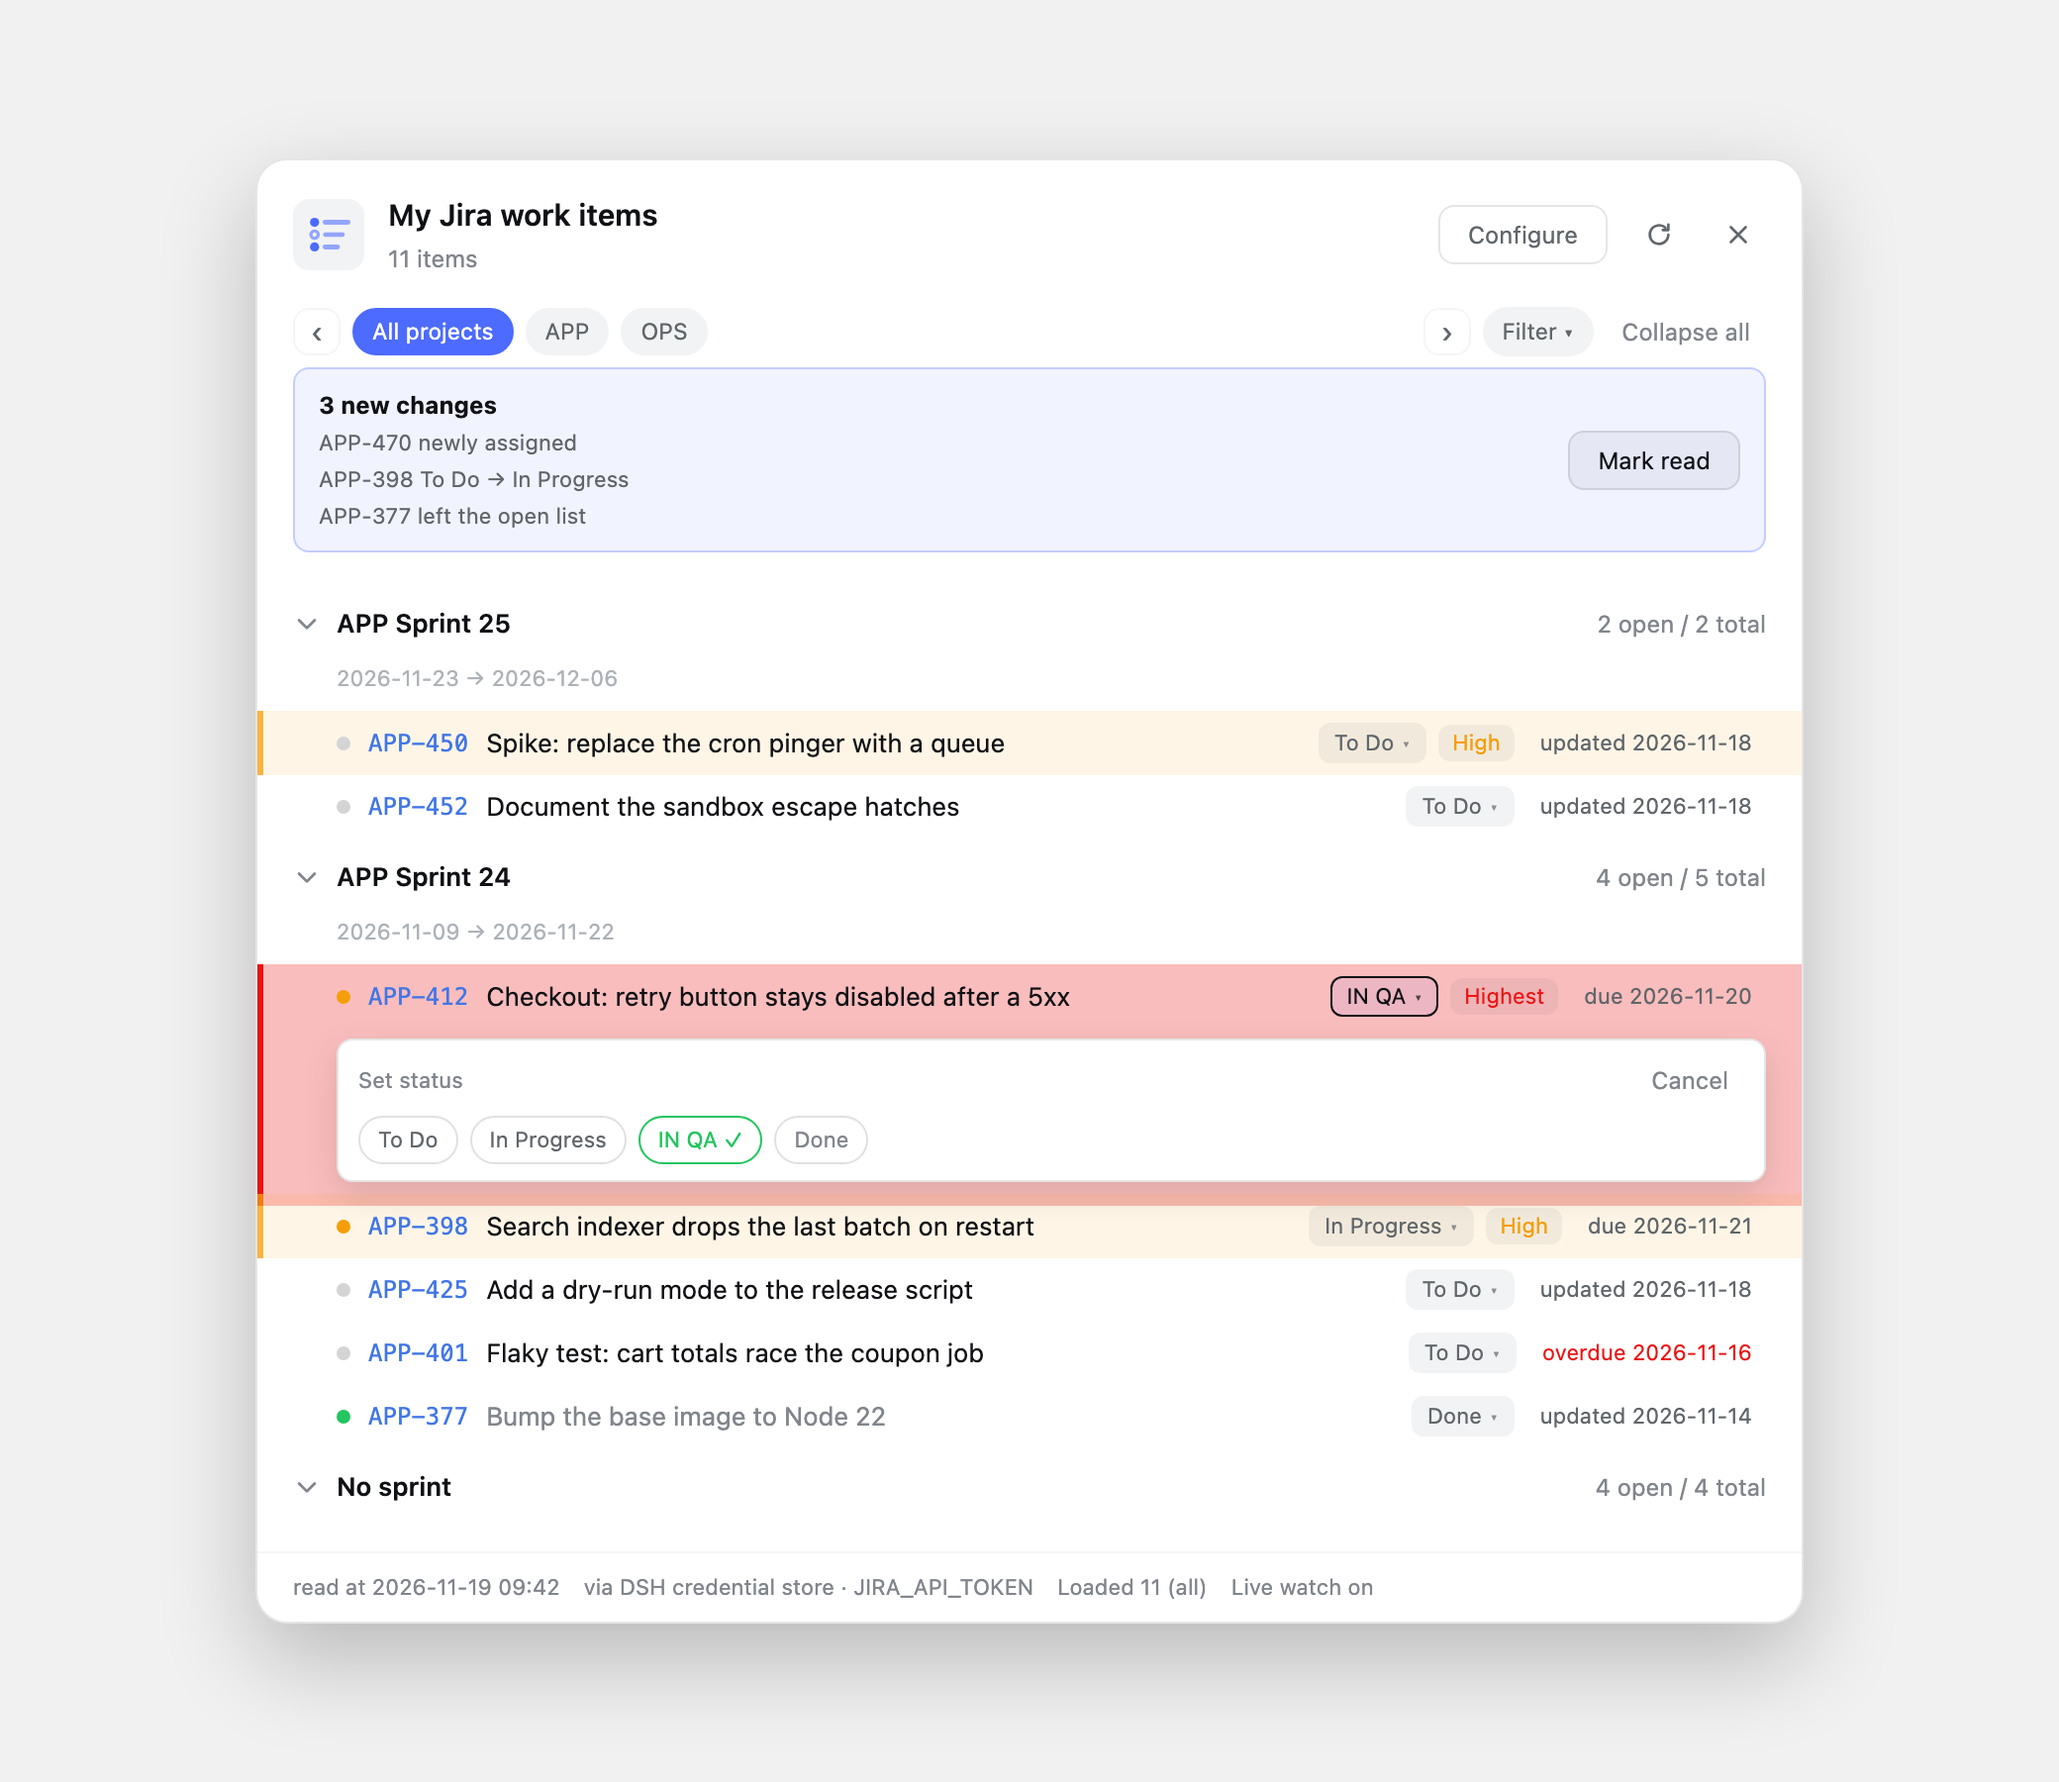
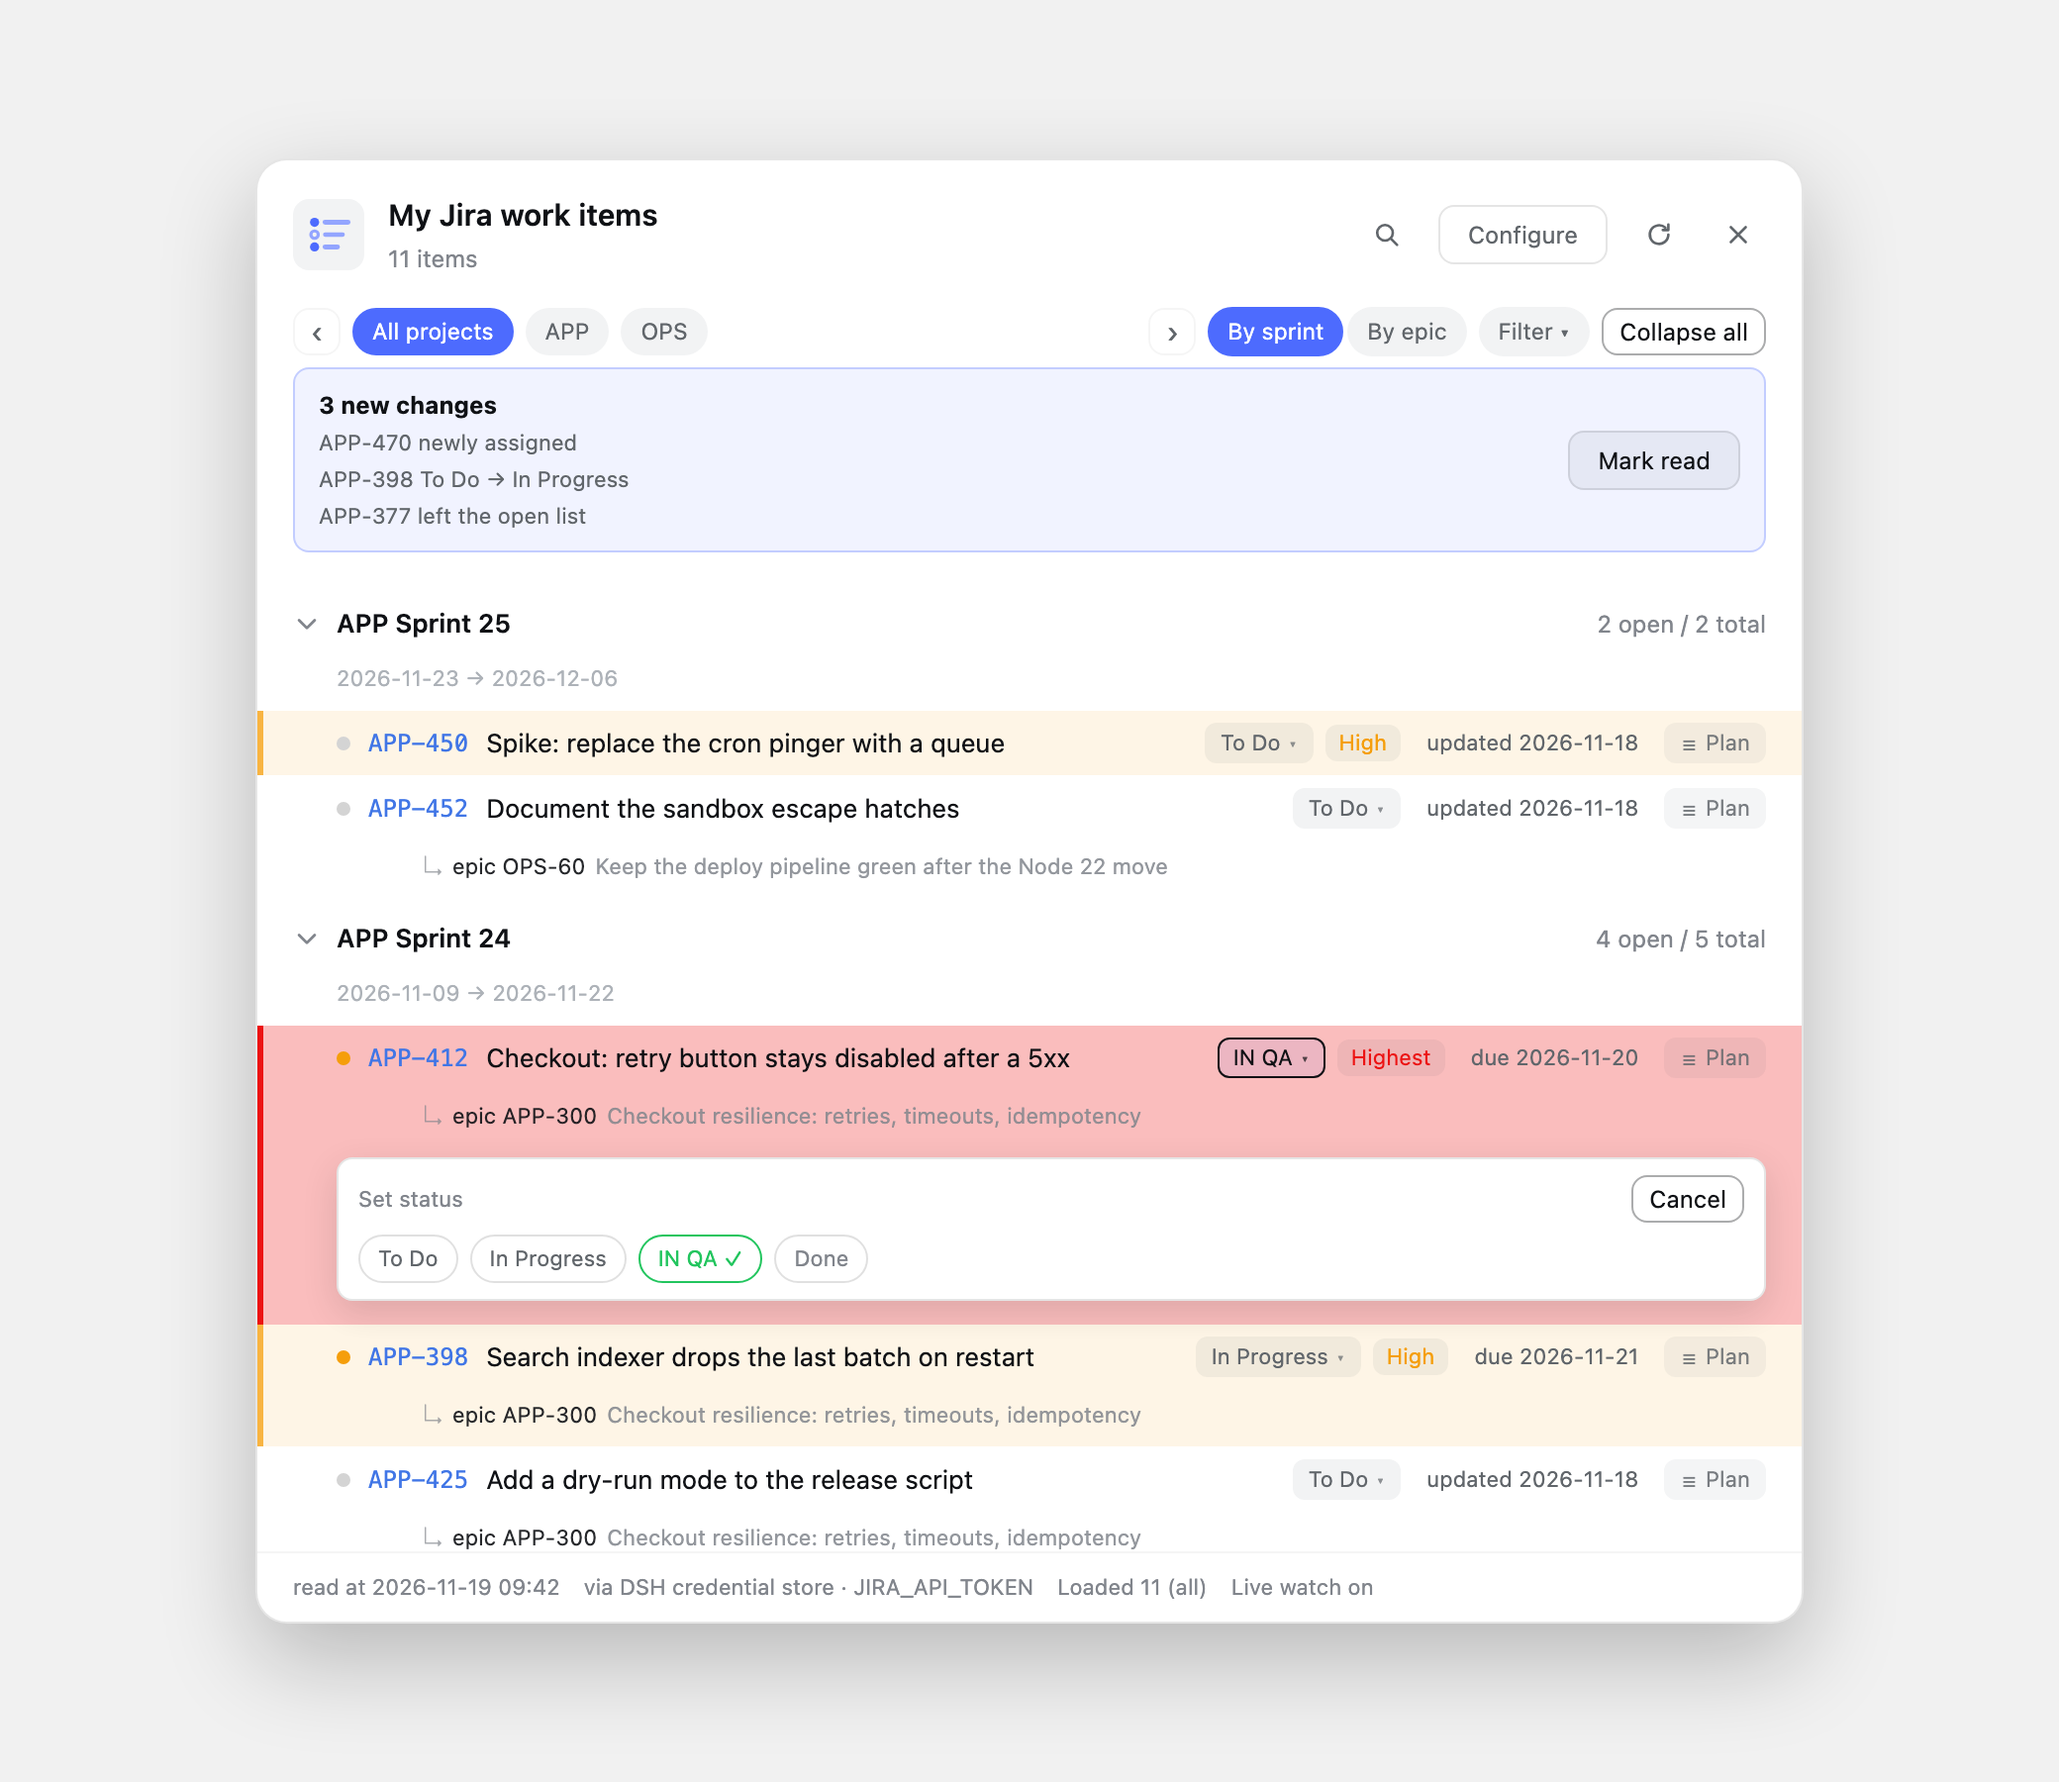
docs: screenshot the epic view, plan chips and site-wide search
- test/dsh-jira-shot.mjs: every issue gets an epic / parent so the `↳` line
  is always on screen; three new shots (panel-search, panel-epic, panel-plan)
  drive the real magnifier → field → Enter path, the real By-epic toggle and
  the real plan chips; `--only` accepts them.
- Row heights are measured in headless Chrome before shooting (real CSS
  decides), then written back and re-rendered — group heads no longer sit
  under the next row in the generated images.
- README / README.zh: embed the new images (search, plan chips, epic view).
- test/README.md: document the new shots and the measurement step.

diff --git a/README.md b/README.md
@@ -83,6 +83,8 @@ Prefer files? Add an override row to your profile's `cordis.patch.yml` (this is 
 
 - **Project tabs** (with `‹ ›` scrolling) filter by issue-key prefix; **status filter** is single-select, defaults to "all statuses".
 - **Search**: the header magnifier expands in place into a field that slides out to the left; type a keyword or an issue key and press **Enter**. The query runs against all of Jira (not only your issues); matches are grouped by sprint like your own list, with the same project tabs / status filter / total. Losing focus (or **Esc**) collapses the field back to the button and keeps an unsubmitted draft; a submitted query clears the field and keeps the results, and `×` clears the search to return to your work.
+
+  <img src="docs/images/panel-search.png" width="1040" alt="A search for 'checkout' inside the panel: the header field is open, the subtitle reads 'Search: checkout 4 items', and the hits are grouped by sprint with their epic line and the same filters as the work list">
 - The header shows the **accurate total** for the current project + status, straight from Jira's `approximate-count`.
 - Click a **status chip** on any row to move the issue; the list reloads. **Esc** closes the top-most layer (status menu → configure dialog → panel).
 - The list is **virtualized**: thousands of rows scroll smoothly because only the visible ones are in the DOM.
@@ -102,7 +104,15 @@ Prefer files? Add an override row to your profile's `cordis.patch.yml` (this is 
   unplanned again and the next click starts a fresh session. Archiving keeps the log — a mis-click is
   recoverable from the archive.
 
+<img src="docs/images/panel-plan.png" width="1040" alt="Rows with the '☰ Plan' chip: the two planned rows near the top are outlined because they are bound to a planning conversation, the rest are not">
+
 <img src="docs/images/panel-watch.png" width="1040" alt="The live-change banner and a row with its status dropdown open (To Do / In Progress / IN QA / Done)">
+
+### Epic view
+
+The **By sprint / By epic** switch in the header re-groups the same list. Each group is an Epic Link (or "No epic"), a group that spans several projects is labelled with its project count, and every row keeps its `↳ epic APP-123` line — one level of Jira's own hierarchy, no free-form graph to maintain.
+
+<img src="docs/images/panel-epic.png" width="1040" alt="The same list grouped by epic: three groups, one of them spanning two projects, with each row's epic line underneath">
 
 ### Slash command
 
@@ -211,7 +221,7 @@ ELECTRON_RUN_AS_NODE=1 "$BIN" test/dsh-jira-status.mjs      # real Jira (skips i
 ELECTRON_RUN_AS_NODE=1 "$BIN" test/dsh-jira-shot.mjs        # regenerate docs/images (headless Chrome, fake data)
 ```
 
-The screenshots are generated offline too: `test/dsh-jira-shot.mjs` renders the real `client.js` components with the real plugin CSS and a fixed set of **made-up** APP/OPS issues, serializes them to static HTML and lets headless Chrome shoot them — so the images never contain a real site, account or issue. Run it with `--lang en,zh`, `--theme dark`, `--only panel|panel-watch|sidebar-entry` or `--out <dir>`; it prints `SKIP:` and exits 0 when no Chrome is installed.
+The screenshots are generated offline too: `test/dsh-jira-shot.mjs` renders the real `client.js` components with the real plugin CSS and a fixed set of **made-up** APP/OPS issues, serializes them to static HTML and lets headless Chrome shoot them — so the images never contain a real site, account or issue. Run it with `--lang en,zh`, `--theme dark`, `--only panel|panel-plan|panel-watch|panel-search|panel-epic|sidebar-entry` or `--out <dir>`; it prints `SKIP:` and exits 0 when no Chrome is installed.
 
 The host half imports `@deepseek-ai/schemastery`, which only resolves inside the app, so the suites copy `index.js` next to a copy of that dependency in a temp dir (`DSH_JIRA_TMP` overrides the location). Real-Jira suites read a token from `DSH_JIRA_ENV_FILE` (default `$TMP/.dsh_jira_env`, `chmod 600`) and **skip** when Jira is unreachable instead of reporting a false regression.
 

diff --git a/README.zh.md b/README.zh.md
@@ -78,6 +78,8 @@ all    : assignee = currentUser() ORDER BY updated DESC
 输入框**失焦（或按 Esc）就收回按钮**：没回车的草稿下次展开还在；回车执行后输入框清空、结果保留；
 `×` 清空搜索并回到「我的工作」。
 
+<img src="docs/images/panel-search.zh.png" width="1040" alt="面板里搜索「结算」：标题栏输入框展开着，副标题显示「搜索：结算 共 4 项」，命中按迭代分组，行下带 epic 从属关系">
+
 <img src="docs/images/panel-watch.zh.png" width="1040" alt="实时变更横幅与展开的状态流转下拉（待办 / 进行中 / IN QA / 已完成）">
 
 **查询范围固定为全部**（`assignee = currentUser()`，含已完成 / 已关闭）：原来的「未完成 / 全部」分段控件已按用户
@@ -107,9 +109,16 @@ all    : assignee = currentUser() ORDER BY updated DESC
 profile 里装了 `deepseek-ai/dsh-plan-mode` 就用它的 `section` 当规划口径；没装也不影响使用——
 首条消息会自带一份「只做规划、只列修改任务、敲定后再执行」的兜底口径。
 
+<img src="docs/images/panel-plan.zh.png" width="1040" alt="任务行末尾的「☰ 计划」徽标：上面两行已计划、被框起来，其余行未计划">
+
 **删掉一条计划对话**：已计划过的任务行在「计划」旁边多一个 `×`，点它就调基座的工作区归档
 （依次尝试 `remote.workspace.archiveSession` / 工作区注册表 `workspaceRegistry.archiveSession` / `connection.call('workspace/archiveSession')`，与侧栏右键「归档」是同一处状态）把那条会话收进归档区，同时清掉绑定；
 归档后这一行回到未计划状态，再点「计划」是新建一条。归档不删日志，误删可以从归档区恢复。
+
+**按 epic 分组**：标题栏的 **按迭代 / 按 epic** 开关把同一批数据换一条线分组——按 Epic Link 归组，横跨多个项目的组在组头标出「N 个项目」，
+每行下面仍带自己的 `↳ epic APP-123`，等于不画图也能看到一个层级。
+
+<img src="docs/images/panel-epic.zh.png" width="1040" alt="同一列表按 epic 分组：三组，其中一组横跨两个项目，每行下面带 epic 从属关系行">
 
 **列表按 sprint（迭代）分组，每一组可折叠 / 展开**：
 
@@ -445,8 +454,10 @@ ELECTRON_RUN_AS_NODE=1 "$BIN" test/dsh-jira-shot.mjs         # 重新生成 docs
 
 `test/dsh-jira-shot.mjs` 出的图和这套离线脚本同源：**真 `client.js` 组件 + 真插件 CSS + 固定的一套虚构 APP/OPS 工作项**，
 序列化成静态 HTML 后交给无头 Chrome 截图，所以图上不会出现任何真实站点、账号或 issue。
-参数：`--lang en,zh`（默认两个都出）、`--theme dark`（默认浅色，深色加 `-dark` 后缀）、`--only panel|panel-watch|sidebar-entry`、`--out <目录>`；
-找不到 Chrome 时打印 `SKIP:` 并以 0 退出。
+每条 issue 都带 epic（`APP-300` / `OPS-60`）或父任务，所以图上的 `↳ epic …` 行一定在场；
+出图前会在无头 Chrome 里**按真 CSS 量一遍行高**再重排，组头与带 `↳` 的行因此落在浏览器里的真实位置。
+参数：`--lang en,zh`（默认两个都出）、`--theme dark`（默认浅色，深色加 `-dark` 后缀）、
+`--only panel|panel-plan|panel-watch|panel-search|panel-epic|sidebar-entry`、`--out <目录>`；找不到 Chrome 时打印 `SKIP:` 并以 0 退出。
 
 约定与坑：
 

diff --git a/test/README.md b/test/README.md
@@ -37,8 +37,10 @@ ELECTRON_RUN_AS_NODE=1 "$BIN" test/dsh-jira-shot.mjs --theme dark       # writes
 ELECTRON_RUN_AS_NODE=1 "$BIN" test/dsh-jira-shot.mjs --only panel-watch
 ```
 
-- The data is a fixed set of **made-up** APP/OPS issues (`demoPayload()`), so a shot can never leak a real site, account or issue summary — the empty theme variables fall back to the plugin's own colours if `app.asar` cannot be read.
-- `--lang en,zh`, `--theme light|dark`, `--only panel|panel-watch|sidebar-entry`, `--out <dir>` (default `docs/images`). Chrome is looked up at `/Applications/Google Chrome.app/…` (override with `DSH_JIRA_CHROME`); without it the script prints `SKIP:` and exits 0.
+- The data is a fixed set of **made-up** APP/OPS issues (`demoPayload()`), so a shot can never leak a real site, account or issue summary — the empty theme variables fall back to the plugin's own colours if `app.asar` cannot be read. Every issue carries an epic (`APP-300` / `OPS-60`) or a parent, so the `↳ epic …` line is always on screen.
+- Shots: `panel` (sprint grouping + `↳` lines + `☰ Plan` chips), `panel-plan` (two bound rows, `×` visible), `panel-watch` (change banner + status dropdown), `panel-search` (drives the real magnifier → field → Enter path and asserts the command面 got `--search=`), `panel-epic` (the real *By epic* toggle; asserts three group heads), `sidebar-entry`.
+- Row heights before shooting: the virtualizer stand-in starts from `estimateSize()` (32px), then `measureRows()` renders the whole list in headless Chrome, reads the real `.jmw-vrow` heights (real CSS decides), writes them back and re-renders — the same order the real library measures rows in. So group heads / rows with a `↳` line land exactly where the browser puts them.
+- `--lang en,zh`, `--theme light|dark`, `--only panel|panel-plan|panel-watch|panel-search|panel-epic|sidebar-entry`, `--out <dir>` (default `docs/images`). Chrome is looked up at `/Applications/Google Chrome.app/…` (override with `DSH_JIRA_CHROME`); without it the script prints `SKIP:` and exits 0.
 - Inside the page CSS it neutralizes the panel's full-screen mask (`.jmw-mask{position:absolute;background:transparent}`) and drops a fake sidebar rail behind `sidebar-entry`, so the shots read as product UI rather than a floating overlay.
 
 ## Environment
